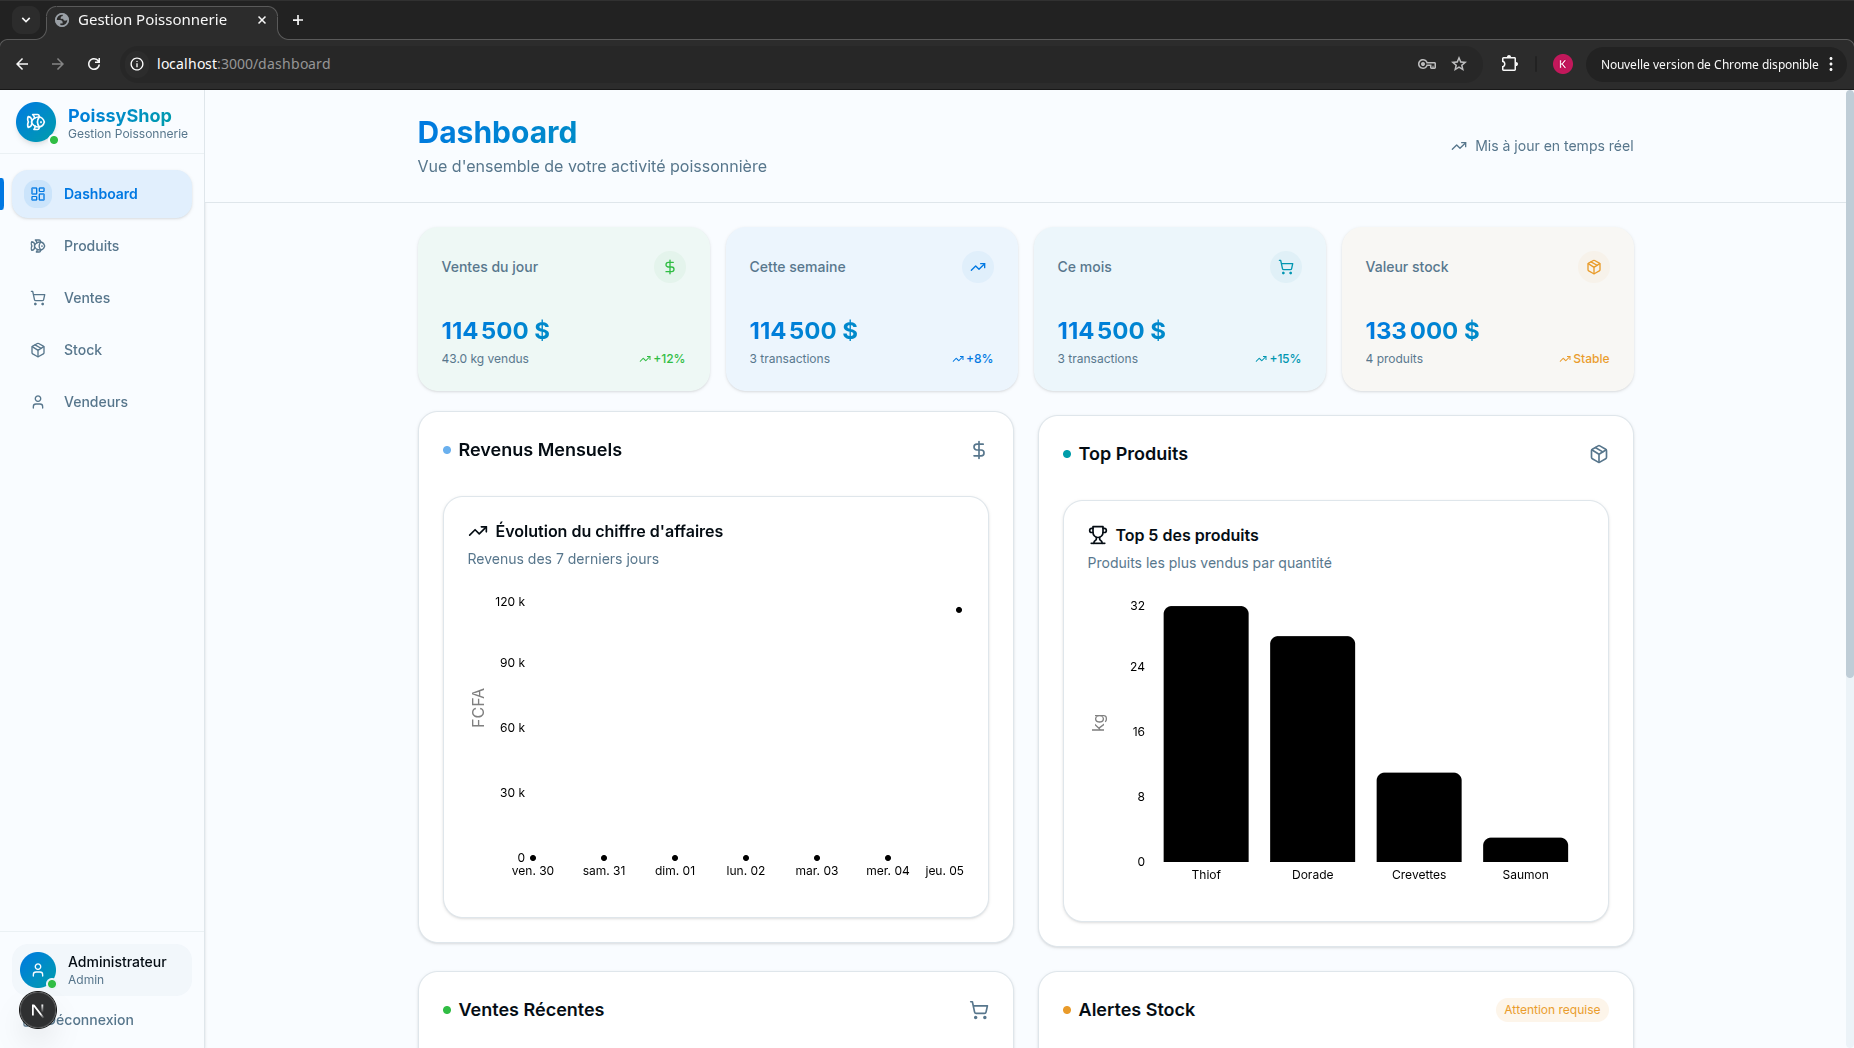
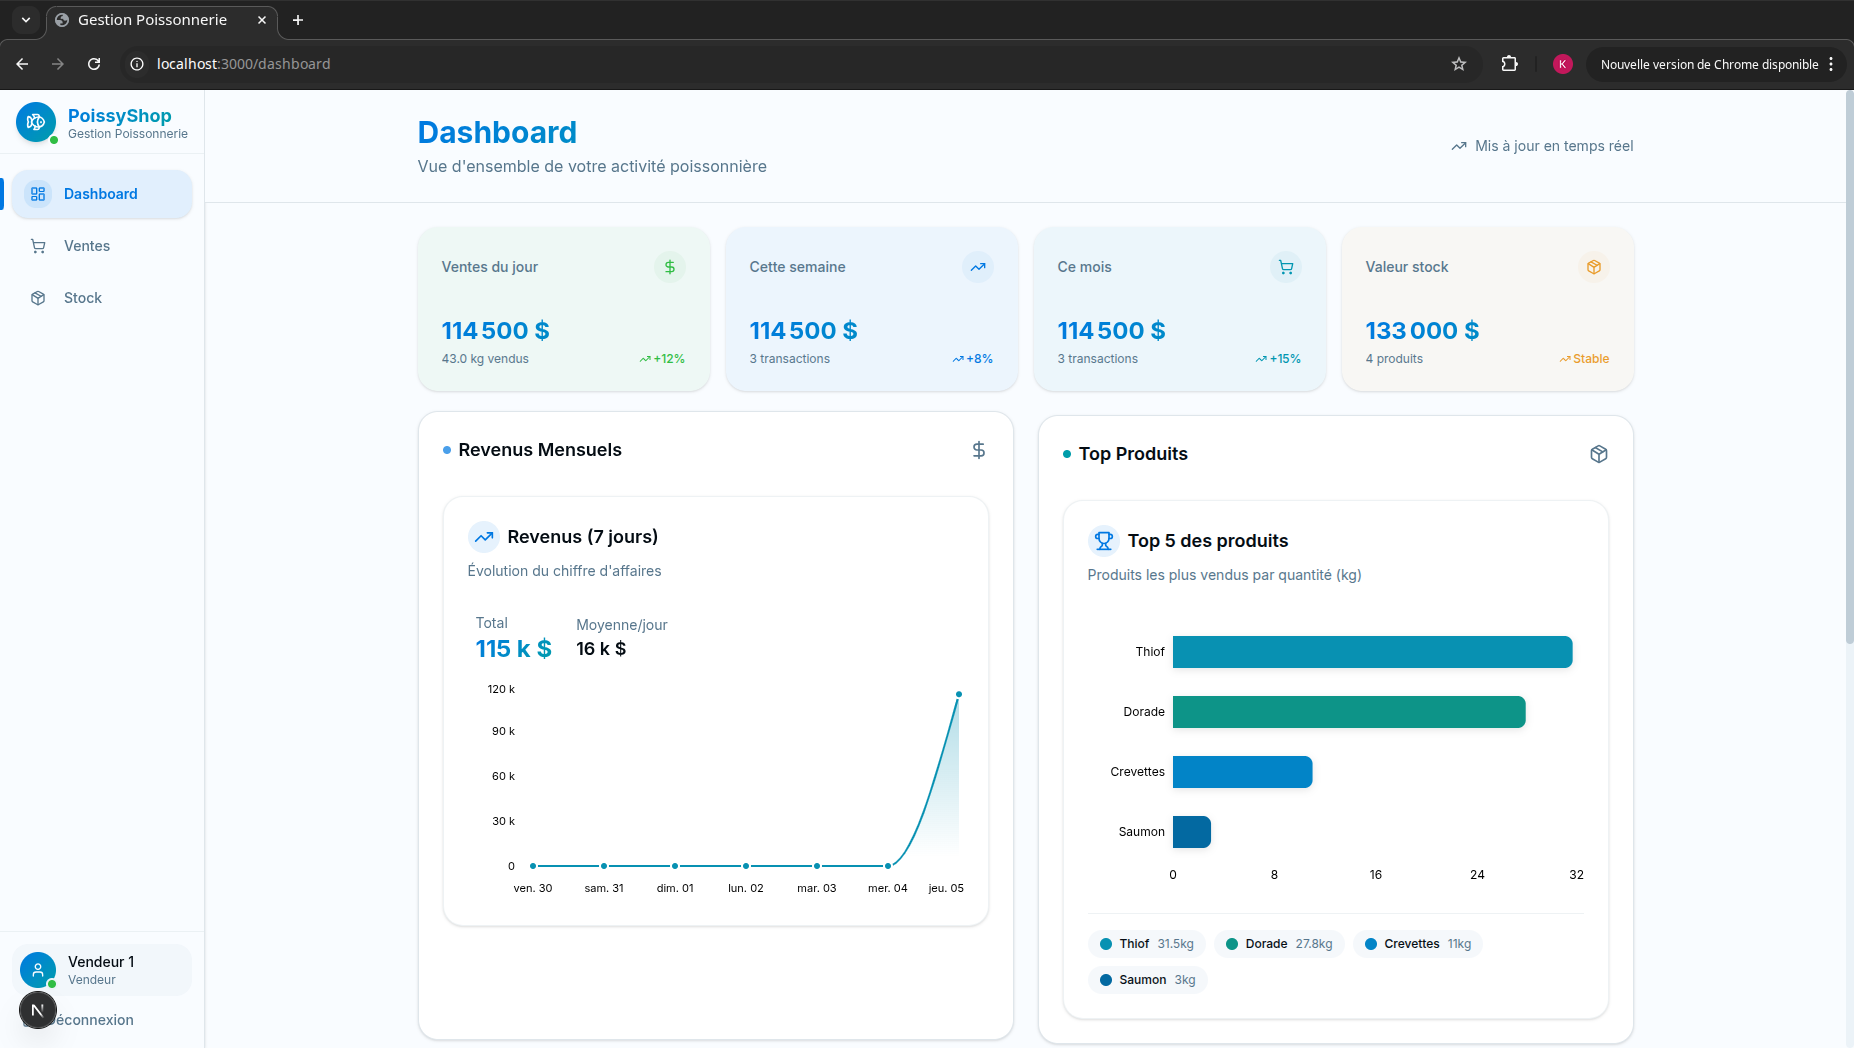
graf ameliorer

diff --git a/components/top-products-chart.tsx b/components/top-products-chart.tsx
@@ -37,61 +37,121 @@ export function TopProductsChart() {
     }))
 
   const formatPrice = (price: number) => {
-    return new Intl.NumberFormat("fr-FR", { notation: "compact" }).format(price) + " FCFA"
+    return new Intl.NumberFormat("fr-FR", { notation: "compact" }).format(price) + " $"
   }
 
+  // Couleurs claires et vibrantes pour les produits de la mer
   const COLORS = [
-    "hsl(var(--chart-1))",
-    "hsl(var(--chart-2))",
-    "hsl(var(--chart-3))",
-    "hsl(var(--chart-4))",
-    "hsl(var(--chart-5))",
+    "#0891b2", // Cyan - Thiof
+    "#0d9488", // Teal - Dorade
+    "#0284c7", // Sky blue - Crevettes
+    "#0369a1", // Ocean blue - Saumon
+    "#075985", // Deep blue - Bar
   ]
 
+  // Couleurs plus claires pour les barres
+  const LIGHT_COLORS = [
+    "#22d3ee", // Cyan light
+    "#2dd4bf", // Teal light
+    "#38bdf8", // Sky light
+    "#7dd3fc", // Blue light
+    "#38bdf8", // Ocean light
+  ]
+
+  const CustomTooltip = ({ active, payload, label }: any) => {
+    if (active && payload && payload.length) {
+      const data = payload[0].payload
+      return (
+        <div className="bg-card border border-border rounded-lg shadow-lg p-3">
+          <p className="font-semibold text-foreground">{data.nom}</p>
+          <p className="text-sm text-primary font-medium">{data.quantite} kg vendus</p>
+          <p className="text-xs text-muted-foreground mt-1">
+            Revenu: {formatPrice(data.revenue)}
+          </p>
+        </div>
+      )
+    }
+    return null
+  }
+
   return (
-    <Card className="border-border">
-      <CardHeader>
-        <CardTitle className="flex items-center gap-2">
-          <Trophy className="h-5 w-5" />
-          Top 5 des produits
+    <Card className="border-border/50 shadow-sm">
+      <CardHeader className="pb-2">
+        <CardTitle className="flex items-center gap-2 text-lg">
+          <div className="p-1.5 rounded-lg bg-primary/10">
+            <Trophy className="h-5 w-5 text-primary" />
+          </div>
+          <span>Top 5 des produits</span>
         </CardTitle>
-        <CardDescription>Produits les plus vendus par quantité</CardDescription>
+        <CardDescription>Produits les plus vendus par quantité (kg)</CardDescription>
       </CardHeader>
       <CardContent>
         {topProducts.length === 0 ? (
-          <div className="flex items-center justify-center h-[300px] text-muted-foreground">
-            Aucune vente enregistrée
+          <div className="flex items-center justify-center h-[280px] text-muted-foreground">
+            <div className="text-center">
+              <Trophy className="h-12 w-12 mx-auto mb-2 opacity-20" />
+              <p>Aucune vente enregistrée</p>
+            </div>
           </div>
         ) : (
-          <ResponsiveContainer width="100%" height={300}>
-            <BarChart data={topProducts}>
-              <CartesianGrid strokeDasharray="3 3" stroke="hsl(var(--border))" />
-              <XAxis dataKey="nom" stroke="hsl(var(--muted-foreground))" fontSize={12} />
-              <YAxis
+          <ResponsiveContainer width="100%" height={280}>
+            <BarChart data={topProducts} layout="vertical">
+              <CartesianGrid strokeDasharray="3 3" stroke="hsl(var(--border))" horizontal={true} vertical={false} />
+              <XAxis
+                type="number"
                 stroke="hsl(var(--muted-foreground))"
                 fontSize={12}
-                label={{ value: "kg", angle: -90, position: "insideLeft" }}
+                tickLine={false}
+                axisLine={false}
+              />
+              <YAxis
+                type="category"
+                dataKey="nom"
+                stroke="hsl(var(--muted-foreground))"
+                fontSize={12}
+                tickLine={false}
+                axisLine={false}
+                width={80}
               />
               <Tooltip
-                contentStyle={{
-                  backgroundColor: "hsl(var(--card))",
-                  border: "1px solid hsl(var(--border))",
-                  borderRadius: "8px",
-                }}
-                labelStyle={{ color: "hsl(var(--foreground))" }}
-                formatter={(value: number, name: string) => {
-                  if (name === "quantite") return [value + " kg", "Quantité"]
-                  return [value, name]
-                }}
+                content={<CustomTooltip />}
+                cursor={{ fill: 'hsl(var(--muted))', opacity: 0.3 }}
               />
-              <Bar dataKey="quantite" radius={[8, 8, 0, 0]}>
+              <Bar
+                dataKey="quantite"
+                radius={[0, 8, 8, 0]}
+                barSize={32}
+              >
                 {topProducts.map((entry, index) => (
-                  <Cell key={`cell-${index}`} fill={COLORS[index % COLORS.length]} />
+                  <Cell
+                    key={`cell-${index}`}
+                    fill={COLORS[index % COLORS.length]}
+                    style={{
+                      filter: 'drop-shadow(0 2px 4px rgba(0, 0, 0, 0.1))',
+                    }}
+                  />
                 ))}
               </Bar>
             </BarChart>
           </ResponsiveContainer>
         )}
+
+        {/* Légende des couleurs */}
+        <div className="flex flex-wrap gap-2 mt-4 pt-4 border-t border-border/50">
+          {topProducts.map((product, index) => (
+            <div
+              key={product.nom}
+              className="flex items-center gap-2 px-3 py-1.5 rounded-full bg-secondary/50 text-xs"
+            >
+              <div
+                className="w-3 h-3 rounded-full"
+                style={{ backgroundColor: COLORS[index % COLORS.length] }}
+              />
+              <span className="font-medium">{product.nom}</span>
+              <span className="text-muted-foreground">{product.quantite}kg</span>
+            </div>
+          ))}
+        </div>
       </CardContent>
     </Card>
   )

diff --git a/components/revenue-chart.tsx b/components/revenue-chart.tsx
@@ -2,7 +2,7 @@
 
 import { useStore } from "@/lib/store"
 import { Card, CardContent, CardDescription, CardHeader, CardTitle } from "@/components/ui/card"
-import { LineChart, Line, XAxis, YAxis, CartesianGrid, Tooltip, ResponsiveContainer } from "recharts"
+import { LineChart, Line, XAxis, YAxis, CartesianGrid, Tooltip, ResponsiveContainer, Area, AreaChart } from "recharts"
 import { TrendingUp } from "lucide-react"
 import { format, subDays, startOfDay } from "date-fns"
 import { fr } from "date-fns/locale"
@@ -30,6 +30,7 @@ export function RevenueChart() {
     return {
       date: format(date, "EEE dd", { locale: fr }),
       revenue: revenue,
+      formattedDate: format(date, "EEEE dd MMMM", { locale: fr }),
     }
   })
 
@@ -37,43 +38,84 @@ export function RevenueChart() {
     return new Intl.NumberFormat("fr-FR", { notation: "compact" }).format(price)
   }
 
+  const CustomTooltip = ({ active, payload, label }: any) => {
+    if (active && payload && payload.length) {
+      const data = payload[0].payload
+      return (
+        <div className="bg-card border border-border rounded-lg shadow-lg p-3">
+          <p className="text-sm text-muted-foreground mb-1">{data.formattedDate}</p>
+          <p className="text-xl font-bold text-primary">{formatPrice(data.revenue)} $</p>
+        </div>
+      )
+    }
+    return null
+  }
+
+  // Calculer le total et la moyenne
+  const totalRevenue = chartData.reduce((sum, d) => sum + d.revenue, 0)
+  const avgRevenue = chartData.length > 0 ? totalRevenue / chartData.length : 0
+
   return (
-    <Card className="border-border">
-      <CardHeader>
-        <CardTitle className="flex items-center gap-2">
-          <TrendingUp className="h-5 w-5" />
-          Évolution du chiffre d'affaires
+    <Card className="border-border/50 shadow-sm">
+      <CardHeader className="pb-2">
+        <CardTitle className="flex items-center gap-2 text-lg">
+          <div className="p-1.5 rounded-lg bg-primary/10">
+            <TrendingUp className="h-5 w-5 text-primary" />
+          </div>
+          <span>Revenus (7 jours)</span>
         </CardTitle>
-        <CardDescription>Revenus des 7 derniers jours</CardDescription>
+        <CardDescription>Évolution du chiffre d'affaires</CardDescription>
       </CardHeader>
       <CardContent>
-        <ResponsiveContainer width="100%" height={300}>
-          <LineChart data={chartData}>
-            <CartesianGrid strokeDasharray="3 3" stroke="hsl(var(--border))" />
-            <XAxis dataKey="date" stroke="hsl(var(--muted-foreground))" fontSize={12} />
+        {/* Stats summary */}
+        <div className="flex items-center gap-6 mb-4 px-2">
+          <div>
+            <p className="text-sm text-muted-foreground">Total</p>
+            <p className="text-2xl font-bold gradient-text">{formatPrice(totalRevenue)} $</p>
+          </div>
+          <div>
+            <p className="text-sm text-muted-foreground">Moyenne/jour</p>
+            <p className="text-lg font-semibold text-foreground">{formatPrice(avgRevenue)} $</p>
+          </div>
+        </div>
+
+        <ResponsiveContainer width="100%" height={220}>
+          <AreaChart data={chartData}>
+            <defs>
+              <linearGradient id="colorRevenue" x1="0" y1="0" x2="0" y2="1">
+                <stop offset="5%" stopColor="#0891b2" stopOpacity={0.3}/>
+                <stop offset="95%" stopColor="#0891b2" stopOpacity={0}/>
+              </linearGradient>
+            </defs>
+            <CartesianGrid strokeDasharray="3 3" stroke="hsl(var(--border))" vertical={false} />
+            <XAxis
+              dataKey="date"
+              stroke="hsl(var(--muted-foreground))"
+              fontSize={11}
+              tickLine={false}
+              axisLine={false}
+              dy={10}
+            />
             <YAxis
               stroke="hsl(var(--muted-foreground))"
-              fontSize={12}
+              fontSize={11}
               tickFormatter={formatPrice}
-              label={{ value: "FCFA", angle: -90, position: "insideLeft" }}
+              tickLine={false}
+              axisLine={false}
+              dx={-10}
             />
-            <Tooltip
-              contentStyle={{
-                backgroundColor: "hsl(var(--card))",
-                border: "1px solid hsl(var(--border))",
-                borderRadius: "8px",
-              }}
-              labelStyle={{ color: "hsl(var(--foreground))" }}
-              formatter={(value: number) => [formatPrice(value) + " FCFA", "Revenus"]}
-            />
-            <Line
+            <Tooltip content={<CustomTooltip />} cursor={{ stroke: 'hsl(var(--primary))', strokeWidth: 1, strokeDasharray: '4 4' }} />
+            <Area
               type="monotone"
               dataKey="revenue"
-              stroke="hsl(var(--chart-1))"
+              stroke="#0891b2"
               strokeWidth={2}
-              dot={{ fill: "hsl(var(--chart-1))" }}
+              fillOpacity={1}
+              fill="url(#colorRevenue)"
+              activeDot={{ r: 6, fill: '#0891b2', stroke: '#fff', strokeWidth: 2 }}
+              dot={{ r: 4, fill: '#0891b2', stroke: '#fff', strokeWidth: 2 }}
             />
-          </LineChart>
+          </AreaChart>
         </ResponsiveContainer>
       </CardContent>
     </Card>
